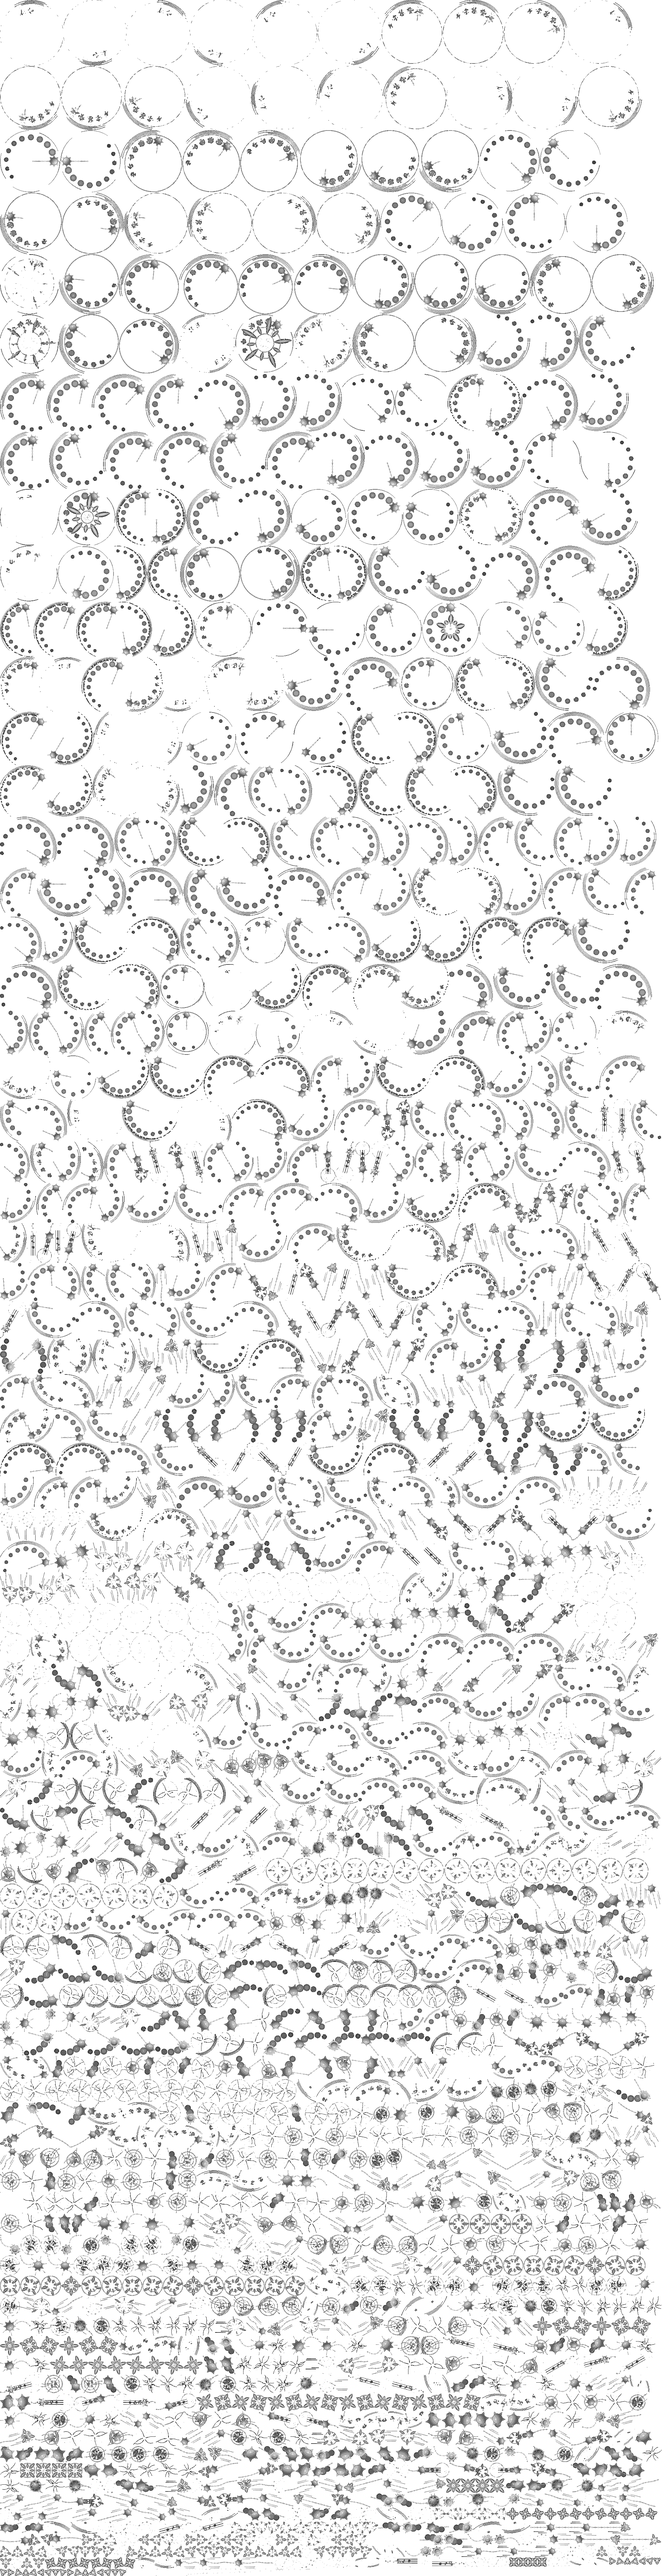
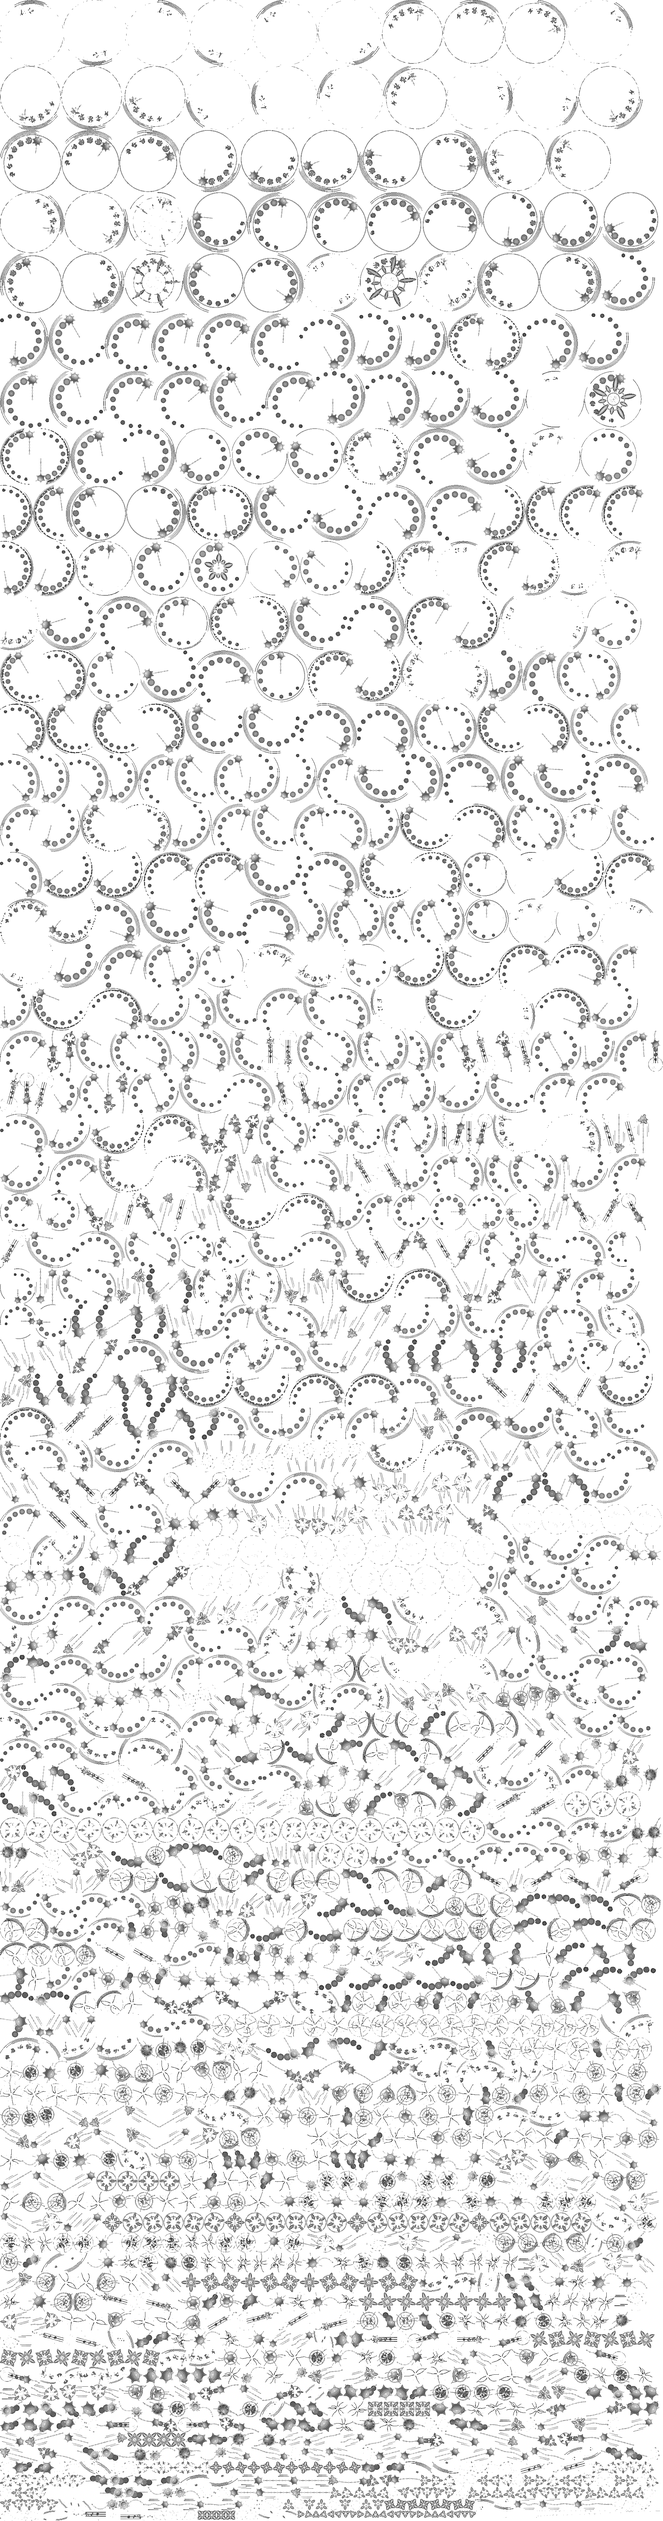
fix: チェーンアレイの右長押しの回しの範囲を半径 2m に狭める
- 溜め中の回し（spinning.step）の reach / size を 40 → 20
- 回る鉄球の絵も同じ半径に縮める

Claude-Session: https://claude.ai/code/session_01HwQhmwscr3qGgsBCugZiZh

Changed region(s): [[0.0, 0.0, 1.0, 1.0]]

diff --git a/CHANGELOG.md b/CHANGELOG.md
@@ -25,6 +25,7 @@
 - **床のアイテム情報の表示 ON/OFF**: 設定の「アイテム情報」か T キー（キー設定で変更可）で、床の遺物・スキル石の性能ポップアップを出さないようにできる。拾う操作と注目の輪はそのまま
 
 ### 変更
+- **チェーンアレイの右長押しの回し**: 押している間に周りを打つ範囲を半径 4m → 2m に狭めた（離したときの溜めの一撃の範囲は据え置き）。回る鉄球の絵も同じ半径に縮めた
 - **武器のエフェクトの手直し**: 専用のドット絵がある武器種では、振るたびに出ていた元の残像の線を出さない（二重に見えていた）。大鎌の鎌引きと鞭の巻き付けの鉤・螺旋を、左右どちらに出しても手に持つ武器の向きに合わせた。戦鎚の叩きつけの地割れ・地面の輪・砂煙をキャラより下に描く（石と閃光はキャラの上）。チェーンアレイの右長押しの振り回しに、押している間ずっと回る鉄球の絵を足した（溜めの段が上がると球が大きく明るくなる）
 - **修正（レビュー）**: 盾・扇子の構えを離した振りの後も「右右左」の派生が繋がるように。素手のまま変身したときの HUD の武器名。持続の奥義は必要量ぶんのゲージで続く（満タンから出しても必要量の低い持続が長引かない）。周回する弾は奥義ゲージを溜めない
 - **マップを広大に**: 通常の階の面積をフロアごとに 3.5〜5 倍の範囲でランダムにした（深度 1 で 96×56 → 約 200×117 タイル）。部屋そのものも大きくなり、部屋数は約 2 倍、敵の総数は約 2.3〜2.8 倍。ボス階は従来の大きさ。死神の猶予は広い階で約 300 秒。遠くの待機中の敵は眠らせ、押し合いの計算を升目にして重さを抑えた
